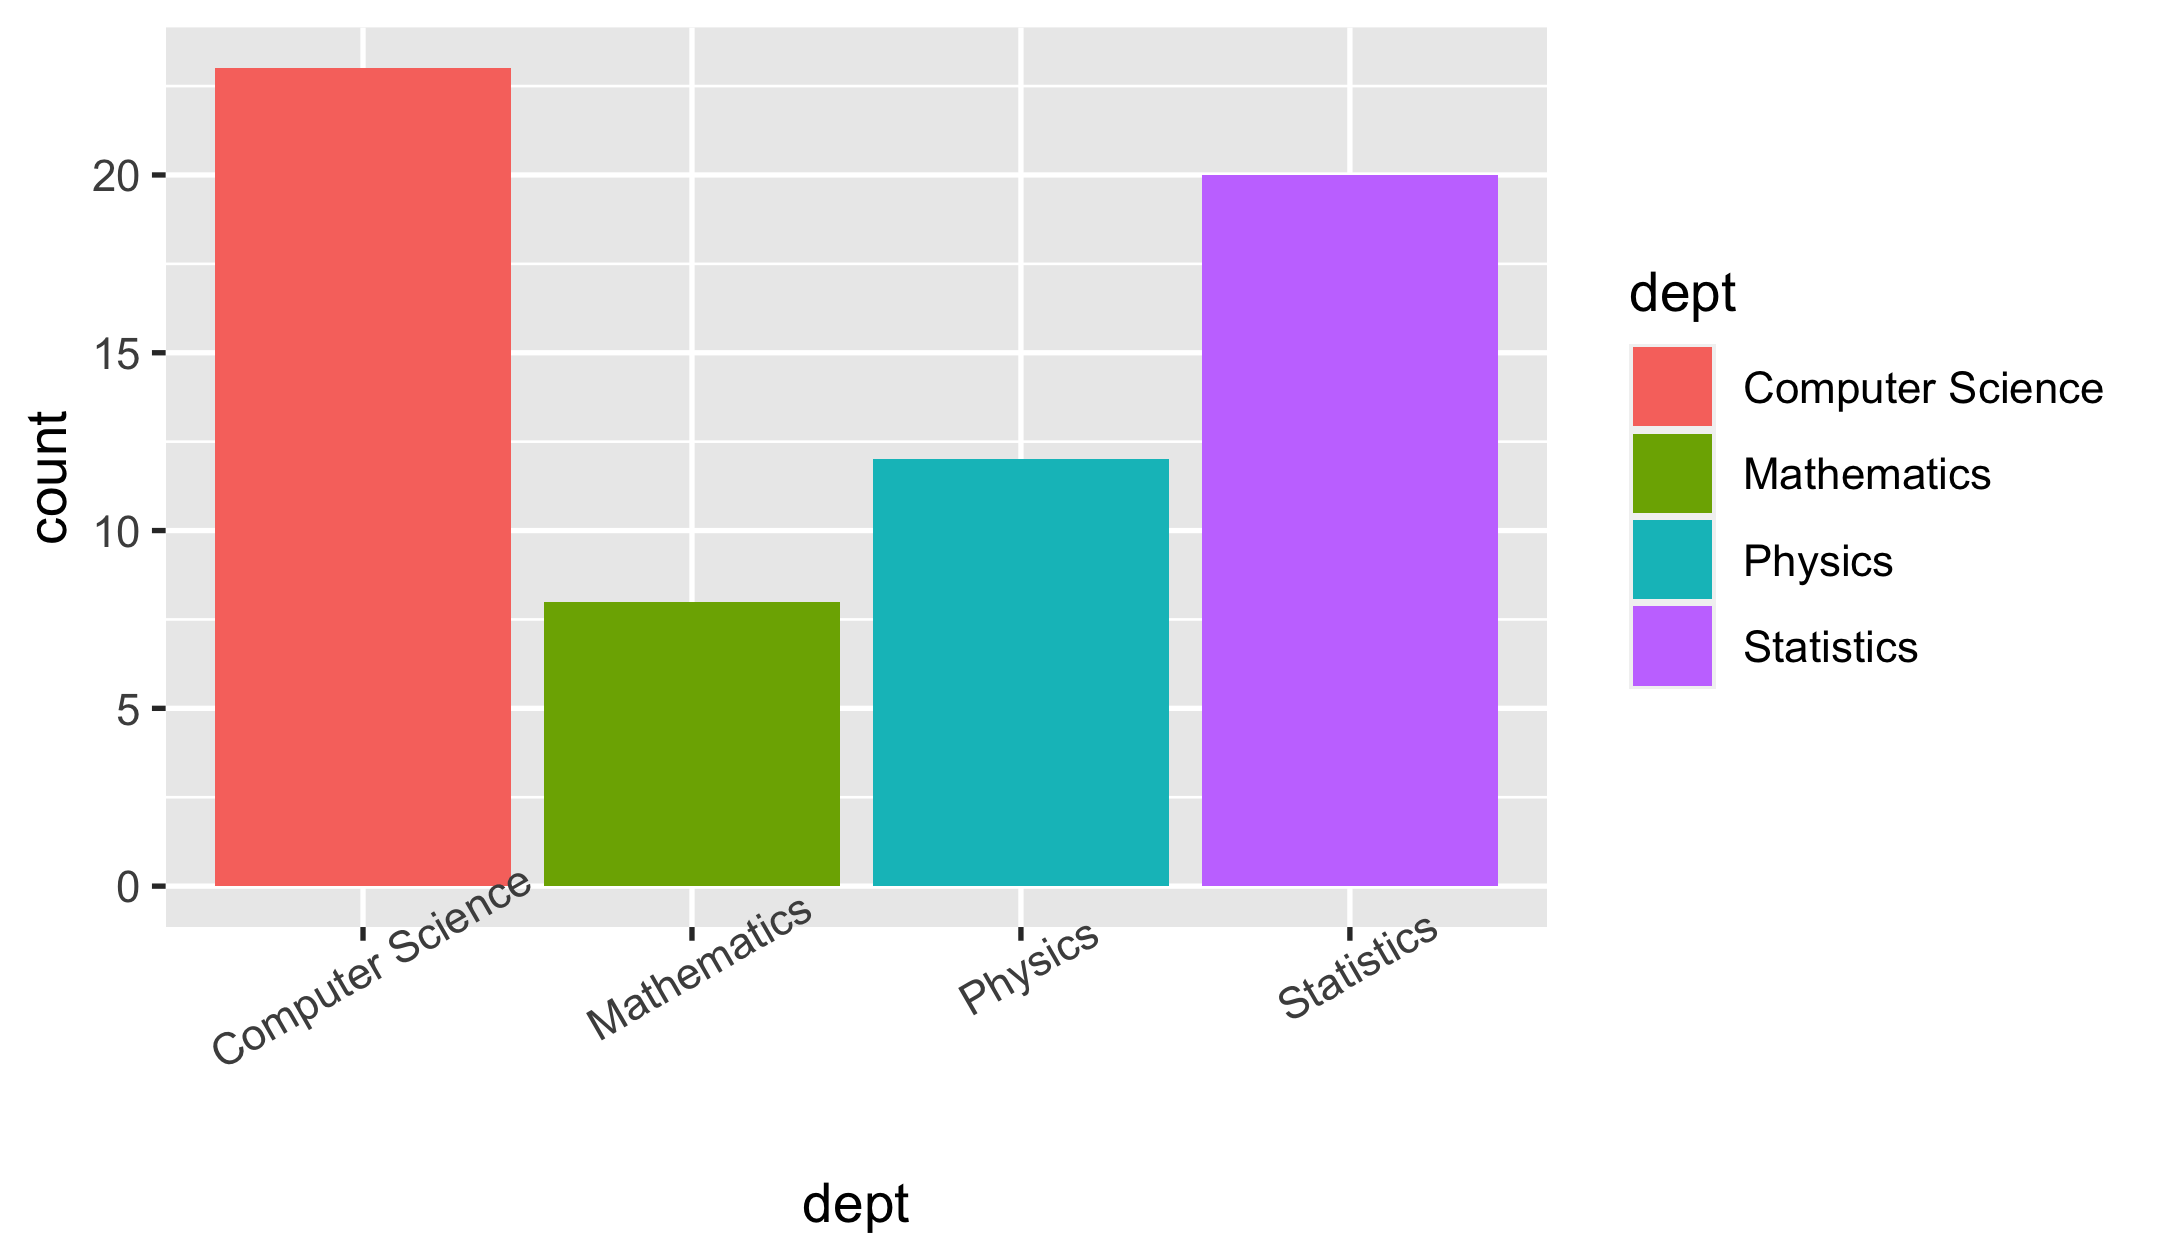
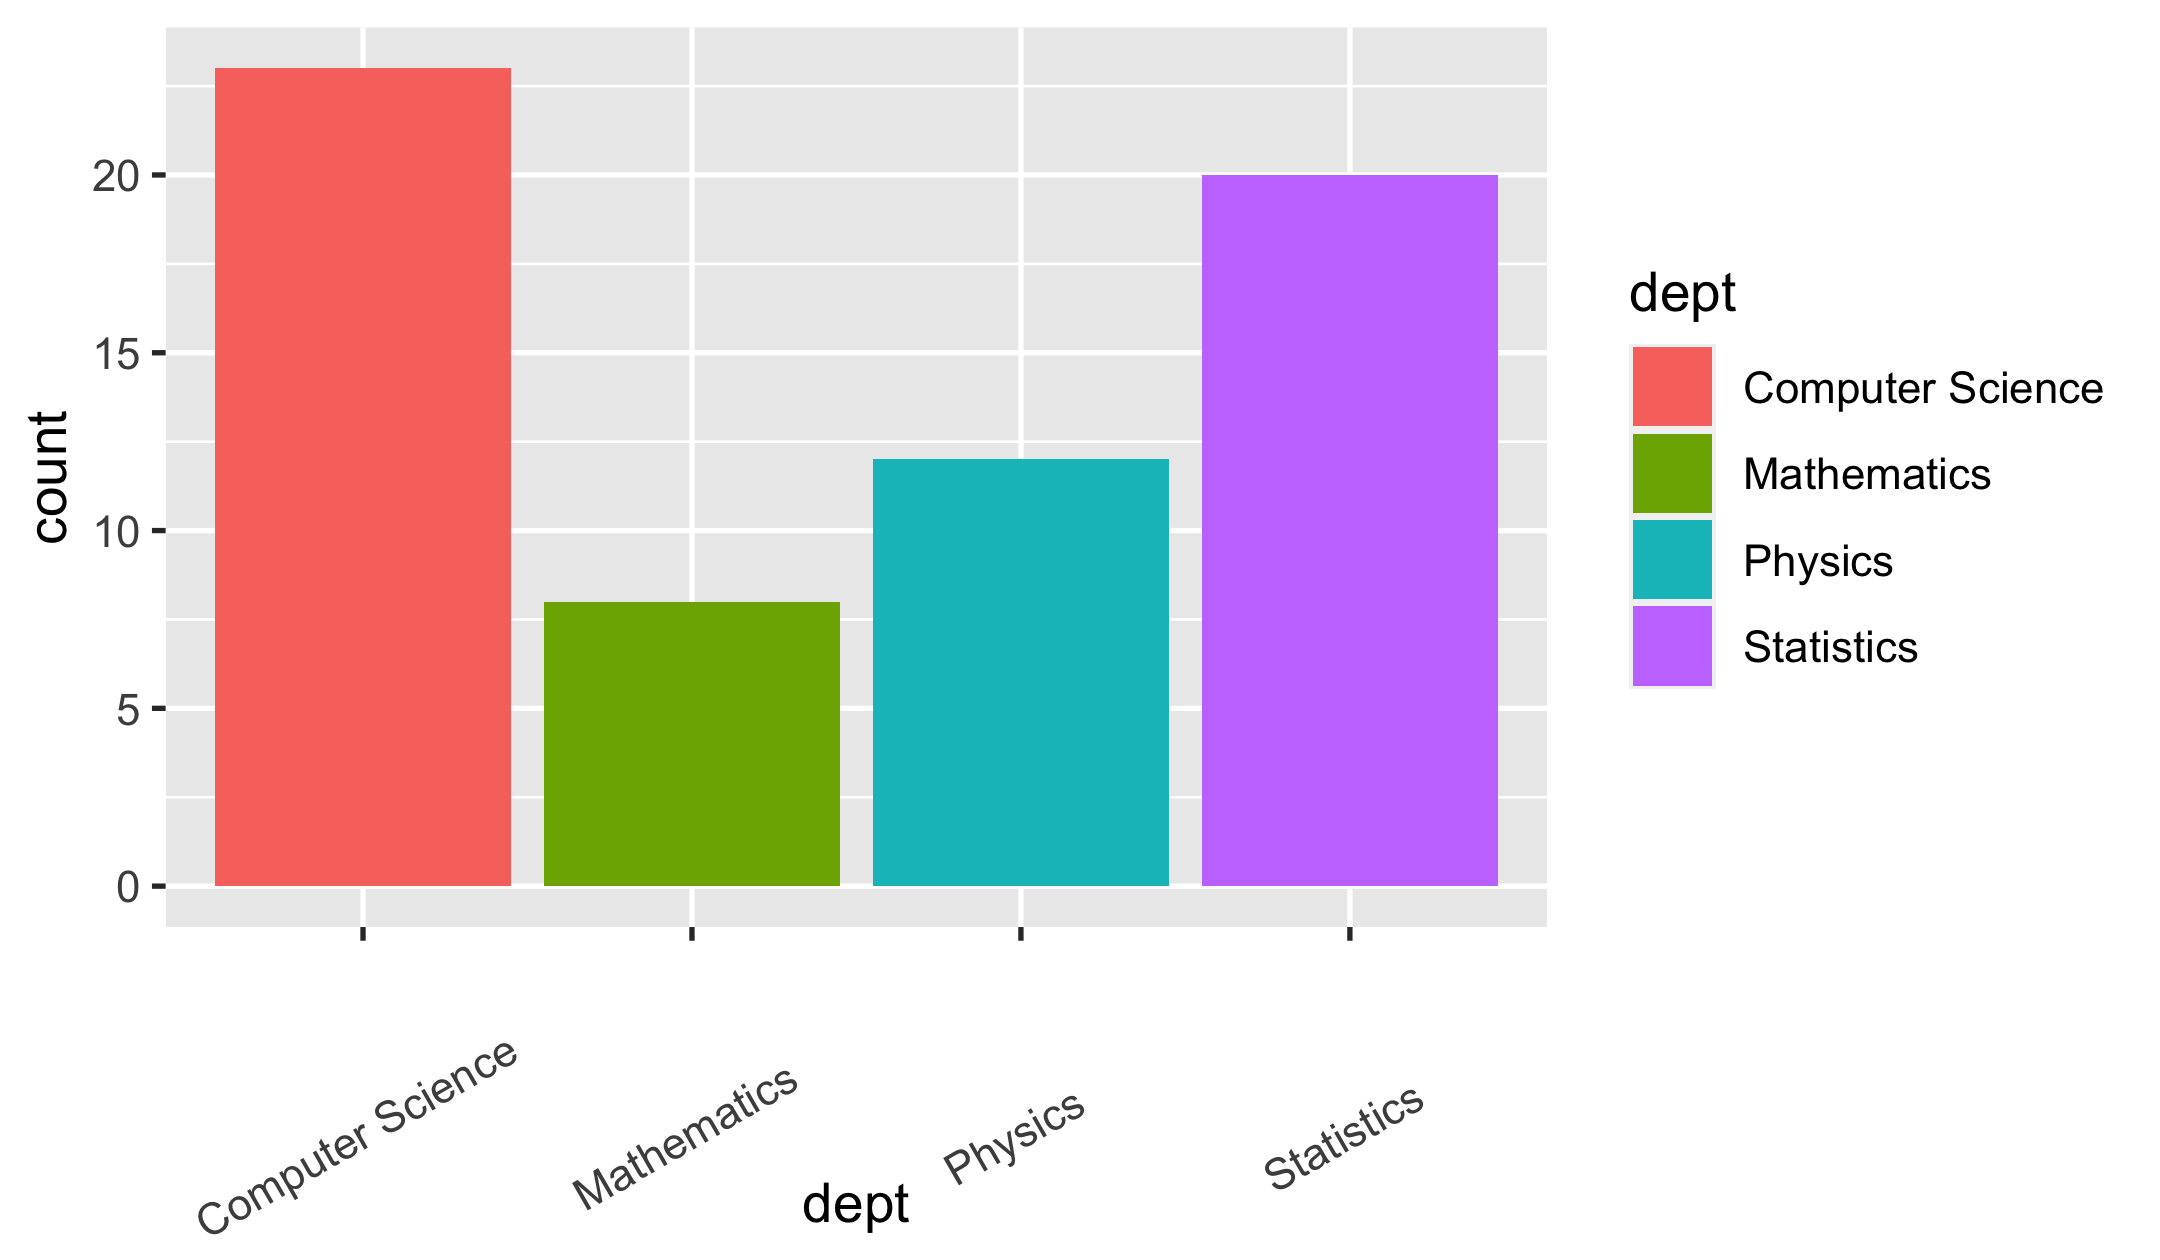
more notes

diff --git a/lectures/03-data-vis.html b/lectures/03-data-vis.html
@@ -631,12 +631,16 @@ p +
 &lt;img src="figure/gg-theme-bw-1.png" width="600" style="display: block; margin: auto;" /&gt;
 ]
 
+???
+
+* start with p11
+
 ---
 
 ## Themes: modify the look
 
 .pull-left[
-* Many R packages provide themes
+* Many R packages provide themes.
   + [{ggthemes}](https://github.com/jrnold/ggthemes)
   + [{ggthemr}](https://github.com/Mikata-Project/ggthemr)
   + [{hrbrthemes}](https://cinc.rud.is/web/packages/hrbrthemes/)
@@ -648,24 +652,17 @@ p +
 library(ggthemes)
 p +
   geom_col(aes(fill = dept)) +
-  theme_economist()
+* theme_economist()
 ```
 
 &lt;img src="figure/ggthemes-1.png" width="480" style="display: block; margin: auto;" /&gt;
 ]
 
----
+???
 
-## Modify the look of *texts* with `element_text()`
-
-
-```r
-p +
-  geom_col(aes(fill = dept)) +
-  theme(axis.text.x = element_text(angle = 30))
-```
-
-&lt;img src="figure/gg-theme-1.png" width="720" style="display: block; margin: auto;" /&gt;
+* to be able to modify the theme is the 1st step to make pub-ready plot
+* in an organisation, use a uniform theme across
+* if you want to make your first R package, contributing a theme would be a good start.
 
 ---
 
@@ -675,21 +672,38 @@ p +
 
 .footnote[image credit: Emi Tanaka]
 
+???
+
+* tons of args in `themes()` for fine tune
+
 ---
 
-## Modify the look of
+## Modify the look of *texts* with `element_text()`
 
-.pull-left[
-.center[**lines** with `element_line()`]
 
-&lt;img src="img/ggplot-annotated-line-marks.png" width="100%"&gt;
+```r
+p +
+  geom_col(aes(fill = dept)) +
+  theme(axis.text.x = element_text(angle = 30, vjust = 0.1))
+```
+
+&lt;img src="figure/gg-theme-1.png" width="720" style="display: block; margin: auto;" /&gt;
+
+---
+
+## Modify the look of *lines* with `element_line()`
+
+.center[&lt;img src="img/ggplot-annotated-line-marks.png" width="80%"&gt;]
+
 .footnote[image credit: Emi Tanaka]
-]
-.pull-right[
-.center[**regions** with `element_rect()`]
 
-&lt;img src="img/ggplot-annotated-rect-marks.png" width="100%"&gt;
-]
+---
+
+## Modify the look of *regions* with `element_rect()`
+
+.center[&lt;img src="img/ggplot-annotated-rect-marks.png" width="60%"&gt;]
+
+.footnote[image credit: Emi Tanaka]
 
 ---
 
